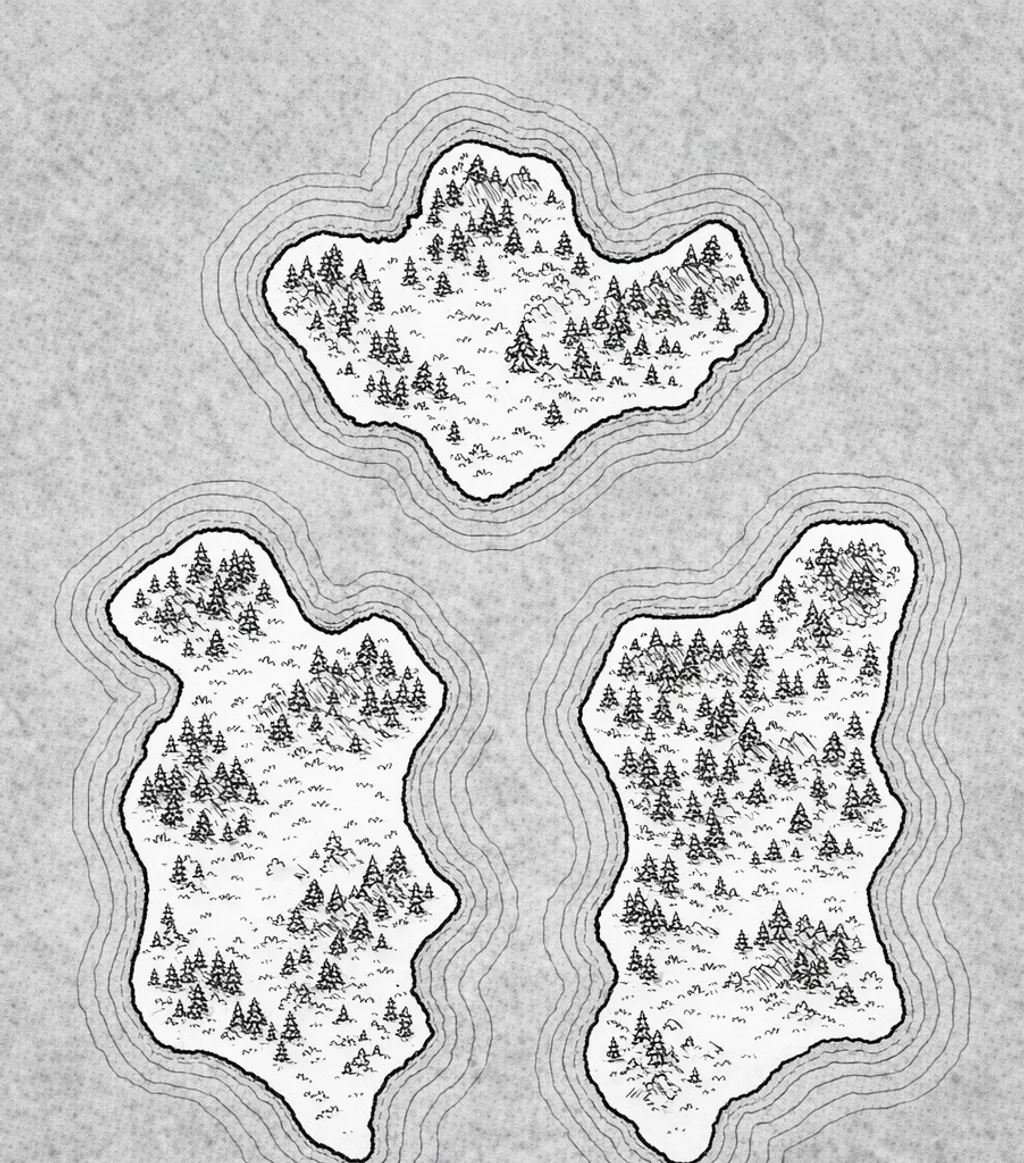
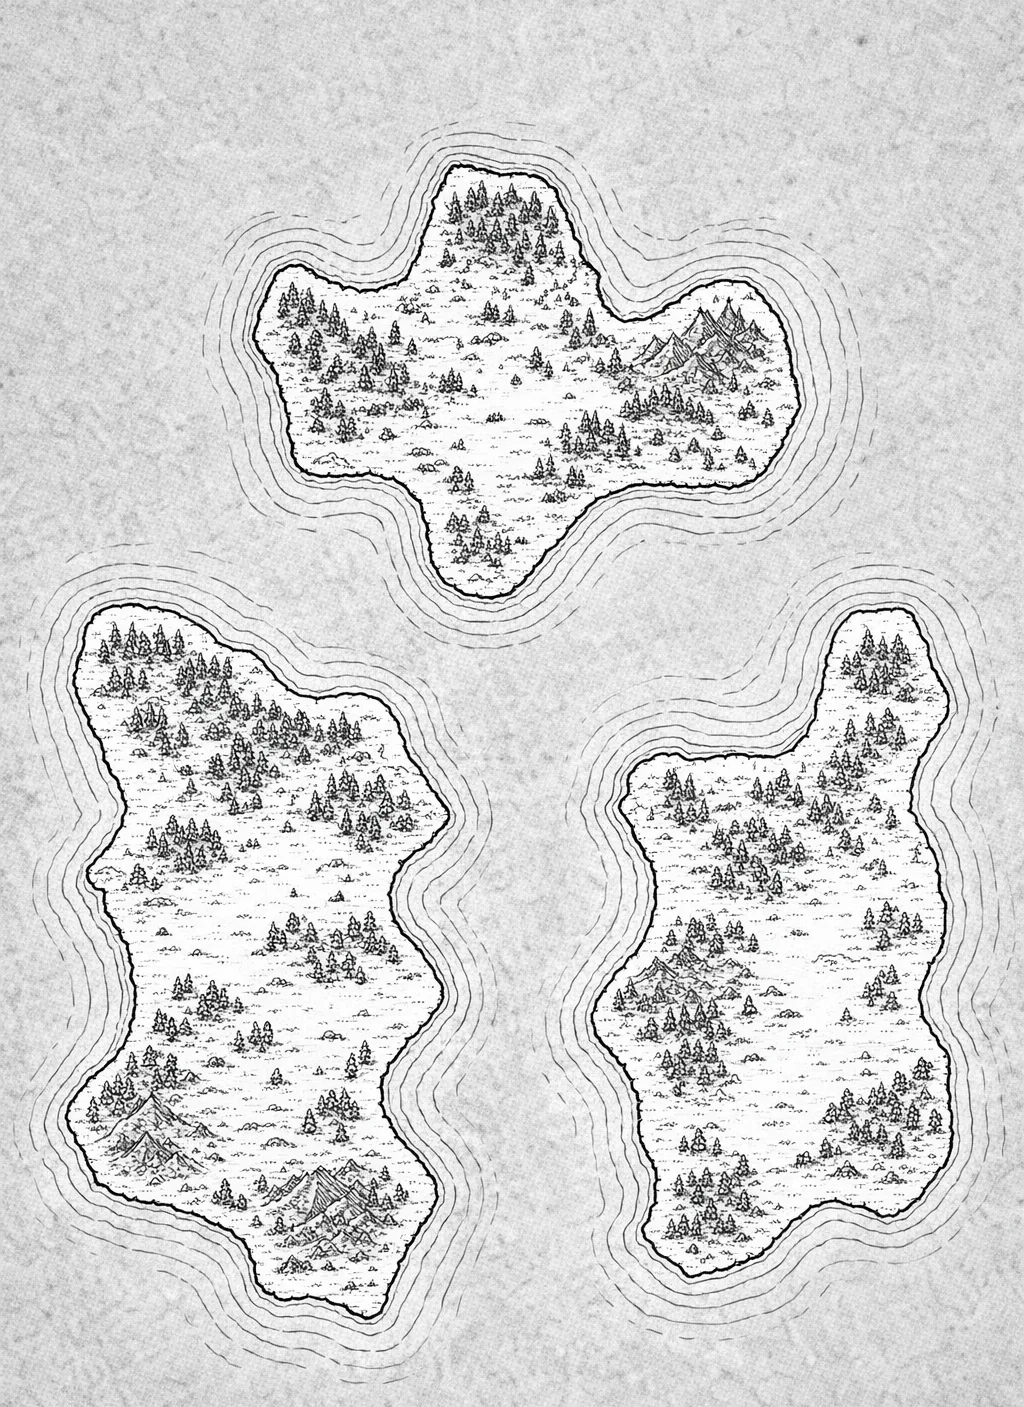
fix: align Rivers terrain background with the board (live board-render geometry) (#104)
* fix(terrain): derive rivers control image from live board-render geometry

The built-in Rivers map's generated background was stretched ~1.21x
vertically because the terrain pipeline built its control image from the
committed assets/maps/rivers/board.svg (viewBox aspect 0.880), while the
web renders the board from live board-render geometry (aspect 0.728) and
paints the terrain with preserveAspectRatio="none". The committed board.svg
had drifted from the current board-render output, so the coastline no
longer lined up with the tiles (e.g. the northern four-tile island only
partially overlapped its shore). Both styles were affected since both
derive from the same control image.

Derive the structural board SVG the same way the web client (boardSvgFor)
and the server's custom-map terrain path already do —
assembleBoardSvg(buildScene(compileHexMap(source))) — via a new
mapStructureSvg() in mapSources. This makes the built-in path share the
single source of truth the custom maps use, so it can never drift again.
board.svg stays only as an art/reference asset and test fixture.

terrain's core stays board-render-free; mapSources gets a narrowly scoped,
documented eslint exception to import board-render (the orchestration seam,
mirroring the server's terrainService).

Note: this fixes the pipeline. The committed rivers webps
(packages/web/src/assets/rivers/background.webp and terrain-ink.webp) still
need regenerating via the terrain CLI (requires FAL_KEY) to land the fix
[…]

diff --git a/packages/terrain/src/mapSources.ts b/packages/terrain/src/mapSources.ts
@@ -1,12 +1,42 @@
 import { fileURLToPath } from "node:url";
+import { assembleBoardSvg, buildScene } from "@sengoku-jidai/board-render";
+import type { HexMapSource } from "@sengoku-jidai/engine";
+import { compileHexMap, riversSource } from "@sengoku-jidai/engine";
 
 /** Repo root, relative to packages/terrain/src/. */
 const repoRoot = fileURLToPath(new URL("../../../", import.meta.url));
 
 /**
- * Board SVG path per map id (relative to repo root). Keep these keys in sync with the
- * engine's map registry (`getMap`): a map known to the engine but missing here makes the
- * CLI fail at `mapSvgPath`. Future maps add an entry here.
+ * Hex source per built-in map id. The terrain structure image is derived from board-render
+ * (`mapStructureSvg`) off these, exactly as the server does for custom maps — so a built-in
+ * map's generated background always shares the geometry the web actually draws. Keep these
+ * keys in sync with the engine's map registry (`getMap`). Future built-in maps add an entry.
+ */
+const SOURCE_BY_MAP: Record<string, HexMapSource> = {
+  rivers: riversSource
+};
+
+/**
+ * The board SVG the terrain pipeline builds its control image from, rendered from live
+ * board-render geometry — identical to `boardSvgFor(mapId)` in the web client and to the
+ * server's custom-map terrain path. This is the single source of truth for tile placement:
+ * a committed `assets/maps/<id>/board.svg` can (and did) drift from the rendered board, which
+ * stretched the generated background; deriving it here keeps the two in lockstep. Throws on an
+ * unknown map id.
+ */
+export function mapStructureSvg(mapId: string): string {
+  const source = SOURCE_BY_MAP[mapId];
+  if (!source) {
+    throw new Error(`Unknown map "${mapId}" — add its source to SOURCE_BY_MAP in mapSources.ts`);
+  }
+  return assembleBoardSvg(buildScene(compileHexMap(source)));
+}
+
+/**
+ * Board SVG path per map id (relative to repo root). This committed art file is still the
+ * source for feature-glyph proportions (HQ/harbour marks in board-render's `assemble.ts`) and
+ * for tests; it is NO LONGER the terrain structure source — use `mapStructureSvg` for that.
+ * Keep these keys in sync with the engine's map registry (`getMap`).
  */
 const SVG_BY_MAP: Record<string, string> = {
   rivers: "assets/maps/rivers/board.svg"

diff --git a/packages/terrain/test/mapSources.test.ts b/packages/terrain/test/mapSources.test.ts
@@ -1,6 +1,17 @@
 import { describe, expect, it } from "vitest";
-import { existsSync } from "node:fs";
-import { mapSvgPath } from "../src/mapSources.js";
+import { existsSync, readFileSync } from "node:fs";
+import { assembleBoardSvg, buildScene } from "@sengoku-jidai/board-render";
+import { compileHexMap, riversSource } from "@sengoku-jidai/engine";
+import { mapStructureSvg, mapSvgPath } from "../src/mapSources.js";
+
+function viewBoxAspect(svg: string): number {
+  const vb = svg.match(/viewBox="([\d.\s-]+)"/i)?.[1];
+  if (!vb) {
+    throw new Error("no viewBox");
+  }
+  const [, , w, h] = vb.trim().split(/\s+/).map(Number);
+  return w! / h!;
+}
 
 describe("mapSvgPath", () => {
   it("resolves the rivers map SVG to an existing file", () => {
@@ -11,5 +22,30 @@ describe("mapSvgPath", () => {
 
   it("throws on an unknown map id", () => {
     expect(() => mapSvgPath("nope")).toThrow(/unknown map/i);
+  });
+});
+
+describe("mapStructureSvg", () => {
+  it("derives the terrain structure SVG from live board-render geometry", () => {
+    const rendered = assembleBoardSvg(buildScene(compileHexMap(riversSource)));
+    expect(mapStructureSvg("rivers")).toBe(rendered);
+  });
+
+  it("matches the aspect ratio of the board the web actually renders", () => {
+    const rendered = assembleBoardSvg(buildScene(compileHexMap(riversSource)));
+    // preserveAspectRatio="none" stretches terrain to the board viewBox, so any aspect
+    // mismatch here re-introduces the vertical-stretch bug.
+    expect(viewBoxAspect(mapStructureSvg("rivers"))).toBeCloseTo(viewBoxAspect(rendered), 5);
+  });
+
+  it("no longer inherits the stale committed board.svg aspect", () => {
+    const committed = readFileSync(mapSvgPath("rivers"), "utf8");
+    // The committed board.svg drifted from the rendered geometry; the terrain source must
+    // not track it any more, or the background stretches vertically.
+    expect(viewBoxAspect(mapStructureSvg("rivers"))).not.toBeCloseTo(viewBoxAspect(committed), 2);
+  });
+
+  it("throws on an unknown map id", () => {
+    expect(() => mapStructureSvg("nope")).toThrow(/unknown map/i);
   });
 });

diff --git a/eslint.config.js b/eslint.config.js
@@ -83,6 +83,29 @@ export default tseslint.config(
       message: "terrain's source may only depend on the engine (no other app/render packages)."
     }
   ]),
+  // mapSources resolves a map's structural board SVG from live board-render geometry — the same
+  // source of truth the web client (`boardSvgFor`) and the server terrain path already use — so
+  // this one module (and only it) may import board-render. A committed board.svg drifts from the
+  // rendered board and stretches the generated background; deriving it keeps the two in lockstep.
+  // A later flat-config entry replaces (not extends) the rule for its files, so restate the full
+  // set minus board-render. Everything else in terrain/src stays board-render-free (boundary above).
+  {
+    files: ["packages/terrain/src/mapSources.ts"],
+    rules: {
+      "@typescript-eslint/no-restricted-imports": [
+        "error",
+        {
+          patterns: [
+            {
+              group: ["@sengoku-jidai/*", "!@sengoku-jidai/engine", "!@sengoku-jidai/board-render"],
+              message:
+                "terrain's source may only depend on the engine; mapSources additionally may import board-render to assemble the structural board SVG."
+            }
+          ]
+        }
+      ]
+    }
+  },
   boundary("packages/server/src", [
     {
       group: ["@sengoku-jidai/web", "@sengoku-jidai/web/*"],

diff --git a/packages/terrain/test/mapPipeline.test.ts b/packages/terrain/test/mapPipeline.test.ts
@@ -10,11 +10,12 @@ import { fileURLToPath } from "node:url";
 describe("runMapPipeline", () => {
   it("renders via the edit model (control + style ref), writing background.webp", async () => {
     const profile = loadMapProfile(fileURLToPath(new URL("../profiles/map.json", import.meta.url)));
-    // Shrink for a fast test; the height (36) is derived from the rivers board viewBox.
+    // Shrink for a fast test; the height (44) is derived from the rivers board viewBox
+    // (live board-render geometry: 992 × 1363 → round(32 × 1363 / 992) = 44).
     profile.base.outputSize = { width: 32 };
 
     const editedPng = await sharp({
-      create: { width: 32, height: 36, channels: 3, background: { r: 120, g: 90, b: 40 } }
+      create: { width: 32, height: 44, channels: 3, background: { r: 120, g: 90, b: 40 } }
     })
       .png()
       .toBuffer();
@@ -46,6 +47,6 @@ describe("runMapPipeline", () => {
     expect(res.webpPath).toBe(join(outDir, "background.webp"));
     const meta = await sharp(readFileSync(res.webpPath)).metadata();
     expect(meta.width).toBe(32);
-    expect(meta.height).toBe(36);
+    expect(meta.height).toBe(44);
   });
 });

diff --git a/packages/terrain/src/mapControlCli.ts b/packages/terrain/src/mapControlCli.ts
@@ -1,10 +1,10 @@
-import { mkdirSync, readFileSync, writeFileSync } from "node:fs";
+import { mkdirSync, writeFileSync } from "node:fs";
 import { dirname, join } from "node:path";
 import { fileURLToPath } from "node:url";
 import { getMap } from "@sengoku-jidai/engine";
 import { renderControl } from "./composite.js";
 import { renderLandMask } from "./masks.js";
-import { mapSvgPath } from "./mapSources.js";
+import { mapStructureSvg } from "./mapSources.js";
 import { loadMapProfile } from "./mapProfile.js";
 import { outputHeightForViewBox } from "./mapPipeline.js";
 import { parseMapControlArgs } from "./mapControlArgs.js";
@@ -18,7 +18,7 @@ async function main(): Promise<void> {
   const { mapId, amplitude } = parseMapControlArgs(process.argv.slice(2));
   const profile = loadMapProfile(fileURLToPath(new URL("../profiles/map.json", import.meta.url)));
   const { base } = profile;
-  const svgMarkup = readFileSync(mapSvgPath(mapId), "utf8");
+  const svgMarkup = mapStructureSvg(mapId); // live board-render geometry, matches the web board
   const width = base.outputSize.width;
   const height = outputHeightForViewBox(svgMarkup, width);
 

diff --git a/packages/terrain/src/mapPipeline.ts b/packages/terrain/src/mapPipeline.ts
@@ -6,7 +6,7 @@ import type { MapDefinition } from "@sengoku-jidai/engine";
 import { getMap } from "@sengoku-jidai/engine";
 import { renderControl } from "./composite.js";
 import { editMapPass, type EditDeps } from "./editPass.js";
-import { mapSvgPath } from "./mapSources.js";
+import { mapStructureSvg } from "./mapSources.js";
 import { renderLandMask } from "./masks.js";
 import type { MapProfile } from "./mapProfile.js";
 import { toWebp } from "./postprocess.js";
@@ -96,7 +96,7 @@ export async function runMapPipeline(
 ): Promise<{ outDir: string; webpPath: string }> {
   const { mapId, profile, outDir } = args;
   const map = getMap(mapId); // throws on unknown map id
-  const svgMarkup = readFileSync(mapSvgPath(mapId), "utf8");
+  const svgMarkup = mapStructureSvg(mapId); // live board-render geometry, matches the web board
   mkdirSync(outDir, { recursive: true });
   const webp = await generateTerrainWebp(deps, { svgMarkup, map, profile });
   const webpPath = join(outDir, "background.webp");
